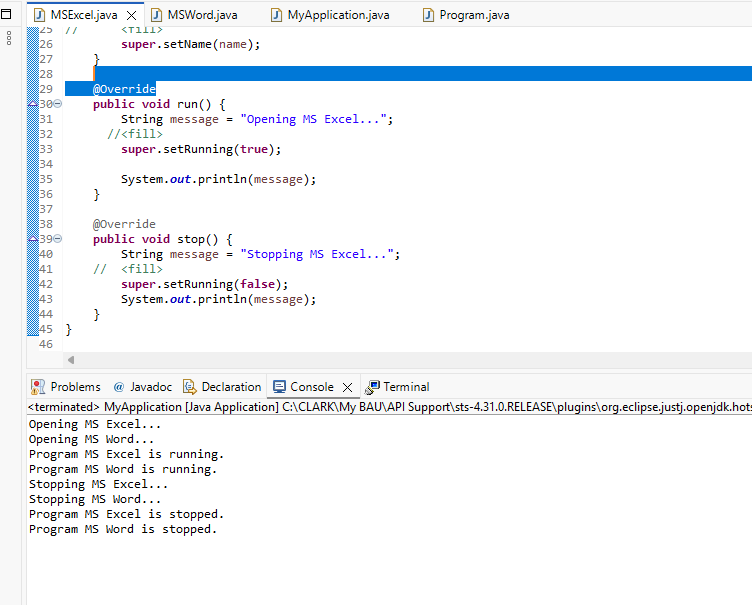
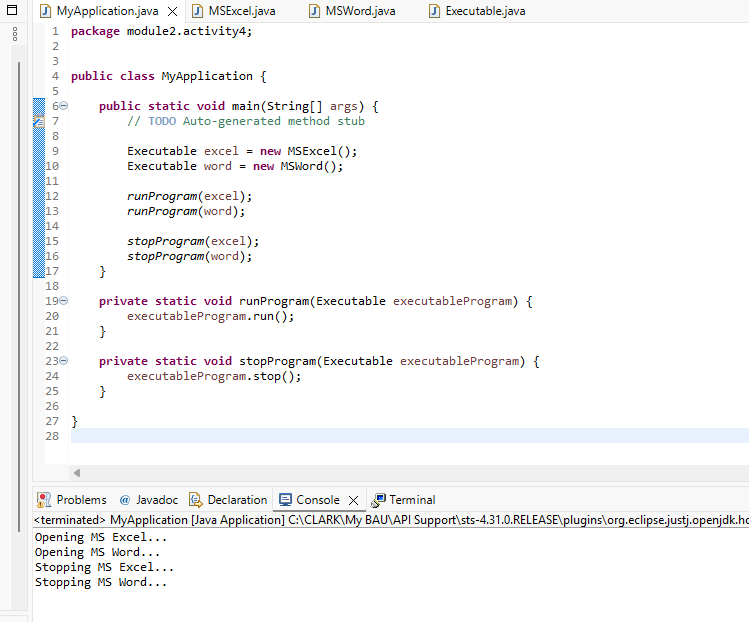
Updated M2 Exercise Activity 4

Changed region(s): [[0.0, 0.0, 1.0, 0.9521], [0.5527, 0.0, 0.7063, 0.0595]]

diff --git a/MyApplication.java b/MyApplication.java
@@ -1,75 +1,27 @@
 package module2.activity4;
 
-//public class MyApplication {
-//
-//	public static void main(String[] args) {
-//		// TODO Auto-generated method stub
-//		
-//		Executable excel = new MSExcel();
-//		Executable word = new MSWord();
-//		
-//		runProgram(excel);
-//		runProgram(word);
-//		
-//		stopProgram(excel);
-//		stopProgram(word);	
-//	}
-//	
-//	private static void runProgram(Executable executableProgram) {
-//		executableProgram.run();
-//	}
-//	
-//	private static void stopProgram(Executable executableProgram) {
-//		executableProgram.stop();
-//	}
-//
-//}
-
-
 
 public class MyApplication {
 
 	public static void main(String[] args) {
-		Program excel = new MSExcel("MS Excel");
-		Program word = new MSWord("MS Word");
+		// TODO Auto-generated method stub
+		
+		Executable excel = new MSExcel();
+		Executable word = new MSWord();
 		
 		runProgram(excel);
 		runProgram(word);
 		
-		checkProgramStatus(excel);
-		checkProgramStatus(word);
-		
 		stopProgram(excel);
-		stopProgram(word);
-		
-		checkProgramStatus(excel);
-		checkProgramStatus(word);
-		
+		stopProgram(word);	
 	}
 	
-	private static void runProgram(Program executableProgram) {
-		
+	private static void runProgram(Executable executableProgram) {
 		executableProgram.run();
-		
 	}
 	
-	private static void stopProgram(Program executableProgram) {
-		
+	private static void stopProgram(Executable executableProgram) {
 		executableProgram.stop();
 	}
-	
-	private static void checkProgramStatus(Program executableProgram) {
-		
-		if(executableProgram.getIsRunning() ) {
-			
-			System.out.println("Program " + executableProgram.getName() + " is running. ");
-			
-		} else {
-			
-			System.out.println("Program " + executableProgram.getName() + " is stopped. ");
-		}
-		
-	}
-
 
 }

diff --git a/MSExcel.java b/MSExcel.java
@@ -1,45 +1,20 @@
 package module2.activity4;
 
-//public class MSExcel implements Executable {
-//
-//	@Override
-//	public void run() {
-//		// TODO Auto-generated method stub
-//		System.out.println("Opening MS Excel...");
-//	}
-//
-//	@Override
-//	public void stop() {
-//		// TODO Auto-generated method stub
-//		System.out.println("Stopping MS Excel...");
-//	}
-//
-//	
-//	
-//}
+public class MSExcel implements Executable {
 
-
-public class MSExcel extends Program {
-	
-	public MSExcel(String name) {
-//		<fill>
-		super.setName(name);
-	}
-	
 	@Override
 	public void run() {
-		String message = "Opening MS Excel...";
-      //<fill>
-		super.setRunning(true);
-		
-		System.out.println(message);
+		// TODO Auto-generated method stub
+		System.out.println("Opening MS Excel...");
 	}
-	
+
 	@Override
 	public void stop() {
-		String message = "Stopping MS Excel...";
-    //  <fill>
-		super.setRunning(false);
-		System.out.println(message);
+		// TODO Auto-generated method stub
+		System.out.println("Stopping MS Excel...");
 	}
+
+	
+	
 }
+

diff --git a/MSWord.java b/MSWord.java
@@ -1,39 +1,18 @@
 package module2.activity4;
 
-//public class MSWord implements Executable{
-//
-//	@Override
-//	public void run() {
-//		// TODO Auto-generated method stub
-//		System.out.println("Opening MS Word...");
-//	}
-//
-//	@Override
-//	public void stop() {
-//		// TODO Auto-generated method stub
-//		System.out.println("Stopping MS Word...");
-//	}
-//
-//}
 
+public class MSWord implements Executable{
 
-public class MSWord extends Program {
-	
-	public MSWord(String name) {
-//		this.setName(name);
-		super.setName(name);
-	}
-	
 	@Override
 	public void run() {
+		// TODO Auto-generated method stub
 		System.out.println("Opening MS Word...");
-		super.setRunning(true);
 	}
-	
+
 	@Override
 	public void stop() {
+		// TODO Auto-generated method stub
 		System.out.println("Stopping MS Word...");
-//      <fill>
-		super.setRunning(false);
 	}
+
 }

diff --git a/Executable.java b/Executable.java
@@ -1,0 +1,6 @@
+package module2.activity4;
+
+interface Executable {
+	public void run();
+	public void stop();
+}
